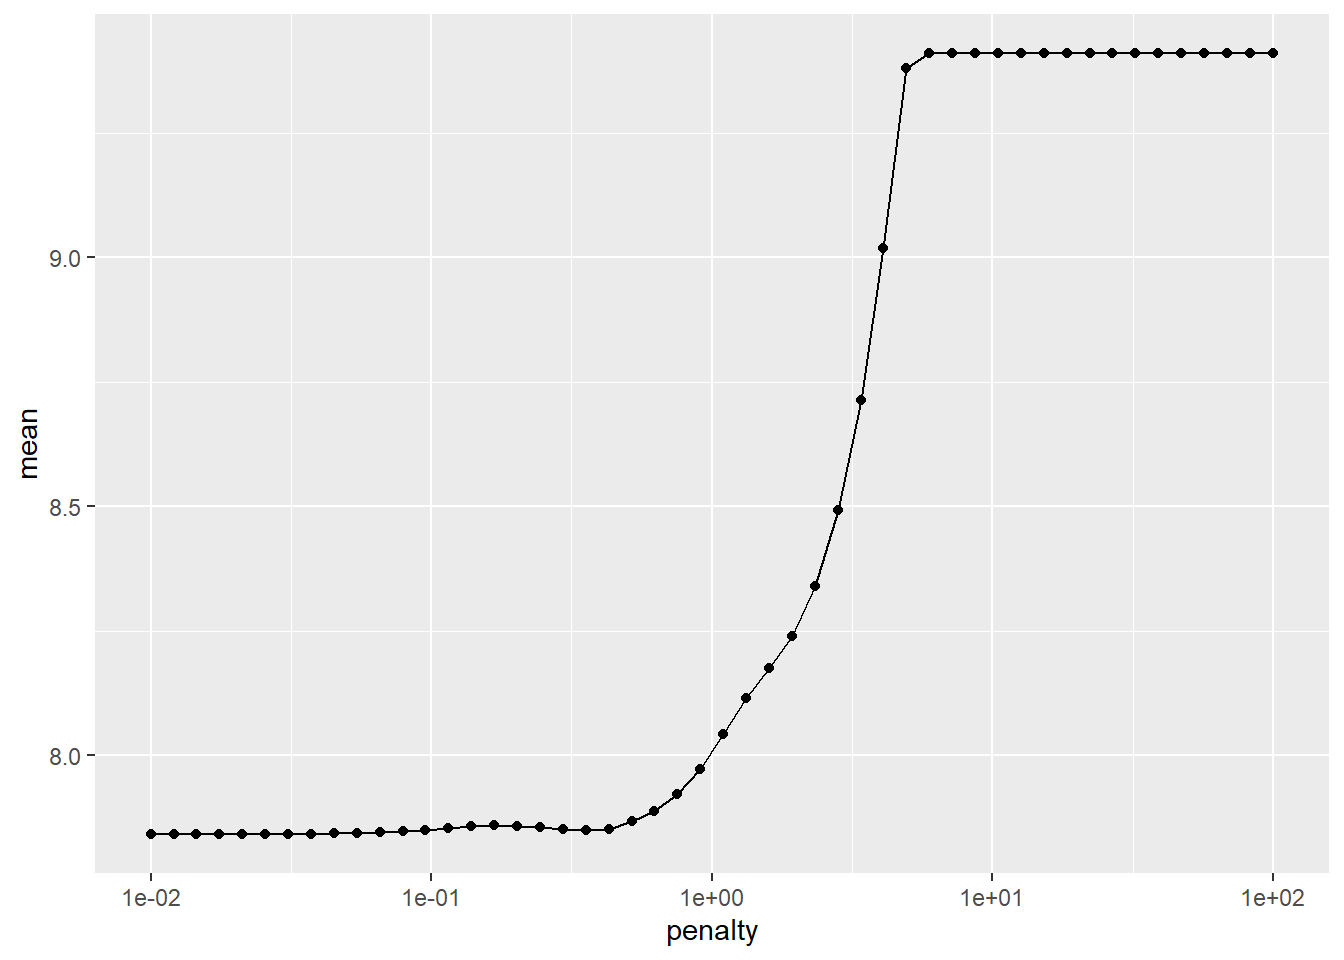
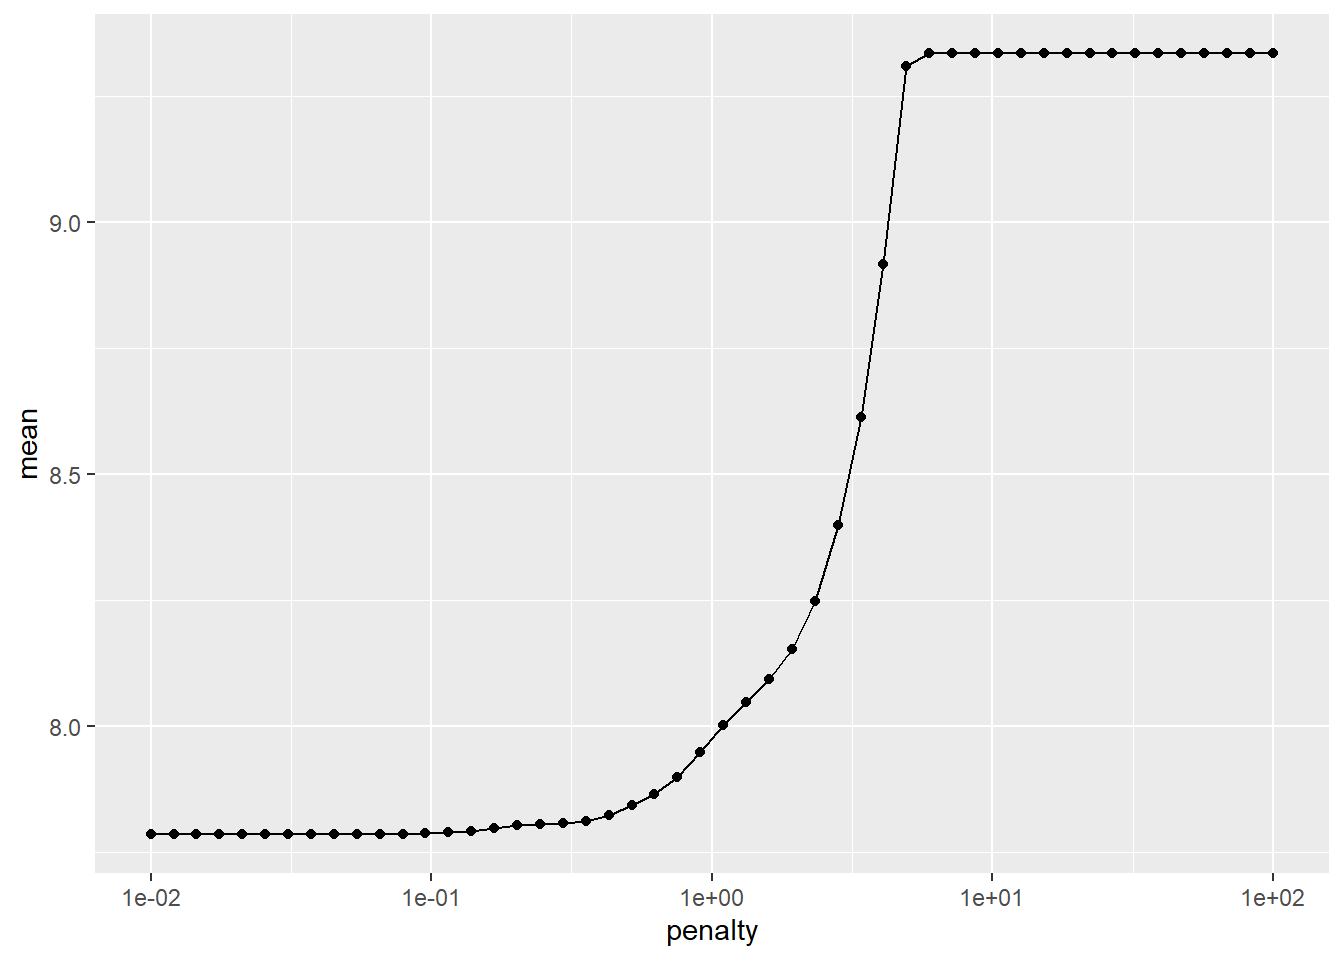
claener index page

diff --git a/docs/FinalProject.html b/docs/FinalProject.html
@@ -682,7 +682,7 @@ New names:
 <pre><code># A tibble: 1 × 2
   penalty .config              
     &lt;dbl&gt; &lt;chr&gt;                
-1    0.01 Preprocessor1_Model01</code></pre>
+1  0.0543 Preprocessor1_Model10</code></pre>
 </div>
 <div class="sourceCode cell-code" id="cb20"><pre class="sourceCode r code-with-copy"><code class="sourceCode r"><span id="cb20-1"><a href="#cb20-1" aria-hidden="true" tabindex="-1"></a>lasso_wflow_final <span class="ot">&lt;-</span> kcc_lasso_wflow <span class="sc">|&gt;</span></span>
 <span id="cb20-2"><a href="#cb20-2" aria-hidden="true" tabindex="-1"></a>  <span class="fu">finalize_workflow</span>(<span class="at">parameters =</span> lasso_best) </span></code><button title="Copy to Clipboard" class="code-copy-button"><i class="bi"></i></button></pre></div>
@@ -699,16 +699,16 @@ New names:
 <pre><code># A tibble: 10 × 3
    term        estimate penalty
    &lt;chr&gt;          &lt;dbl&gt;   &lt;dbl&gt;
- 1 (Intercept)   27.8      0.01
- 2 PtA           -1.02     0.01
- 3 FirstD         1.12     0.01
- 4 TotYd          3.89     0.01
- 5 PassY          0        0.01
- 6 RushY          0.966    0.01
- 7 FirstD_Alwd    2.08     0.01
- 8 TotYd_Alwd     0        0.01
- 9 PassY_Alwd     0.813    0.01
-10 RushY_Alwd    -0.500    0.01</code></pre>
+ 1 (Intercept)   27.8    0.0543
+ 2 PtA           -0.835  0.0543
+ 3 FirstD         1.05   0.0543
+ 4 TotYd          3.86   0.0543
+ 5 PassY          0      0.0543
+ 6 RushY          0.950  0.0543
+ 7 FirstD_Alwd    1.95   0.0543
+ 8 TotYd_Alwd     0      0.0543
+ 9 PassY_Alwd     0.749  0.0543
+10 RushY_Alwd    -0.482  0.0543</code></pre>
 </div>
 </div>
 <p>Here we can see that important variables include Points Allowed (PtA), First Down Count (FirstD), Total Yards (TotYd), total Rusing Yards (RushY), First Downs Allowed (FirstD_Alwd), Passing Yards Allowed (PassY_Alwd) and Rushing Yards Allowed (RushY_Alwd). We will proceed to use these variables in our following models.</p>

diff --git a/docs/index.html b/docs/index.html
@@ -139,7 +139,7 @@ ul.task-list li input[type="checkbox"] {
 <section id="education" class="level2">
 <h2 data-anchor-id="education">Education</h2>
 <p><strong>Santiago Canyon College</strong> | Orange | 2018 - 2020</p>
-<p><strong>California State University</strong> Fullerton | Fullerton | 2023 - 2025</p>
+<p><strong>California State University</strong> | Fullerton | 2023 - 2025</p>
 </section>
 <section id="experience" class="level2">
 <h2 data-anchor-id="experience">Experience</h2>
